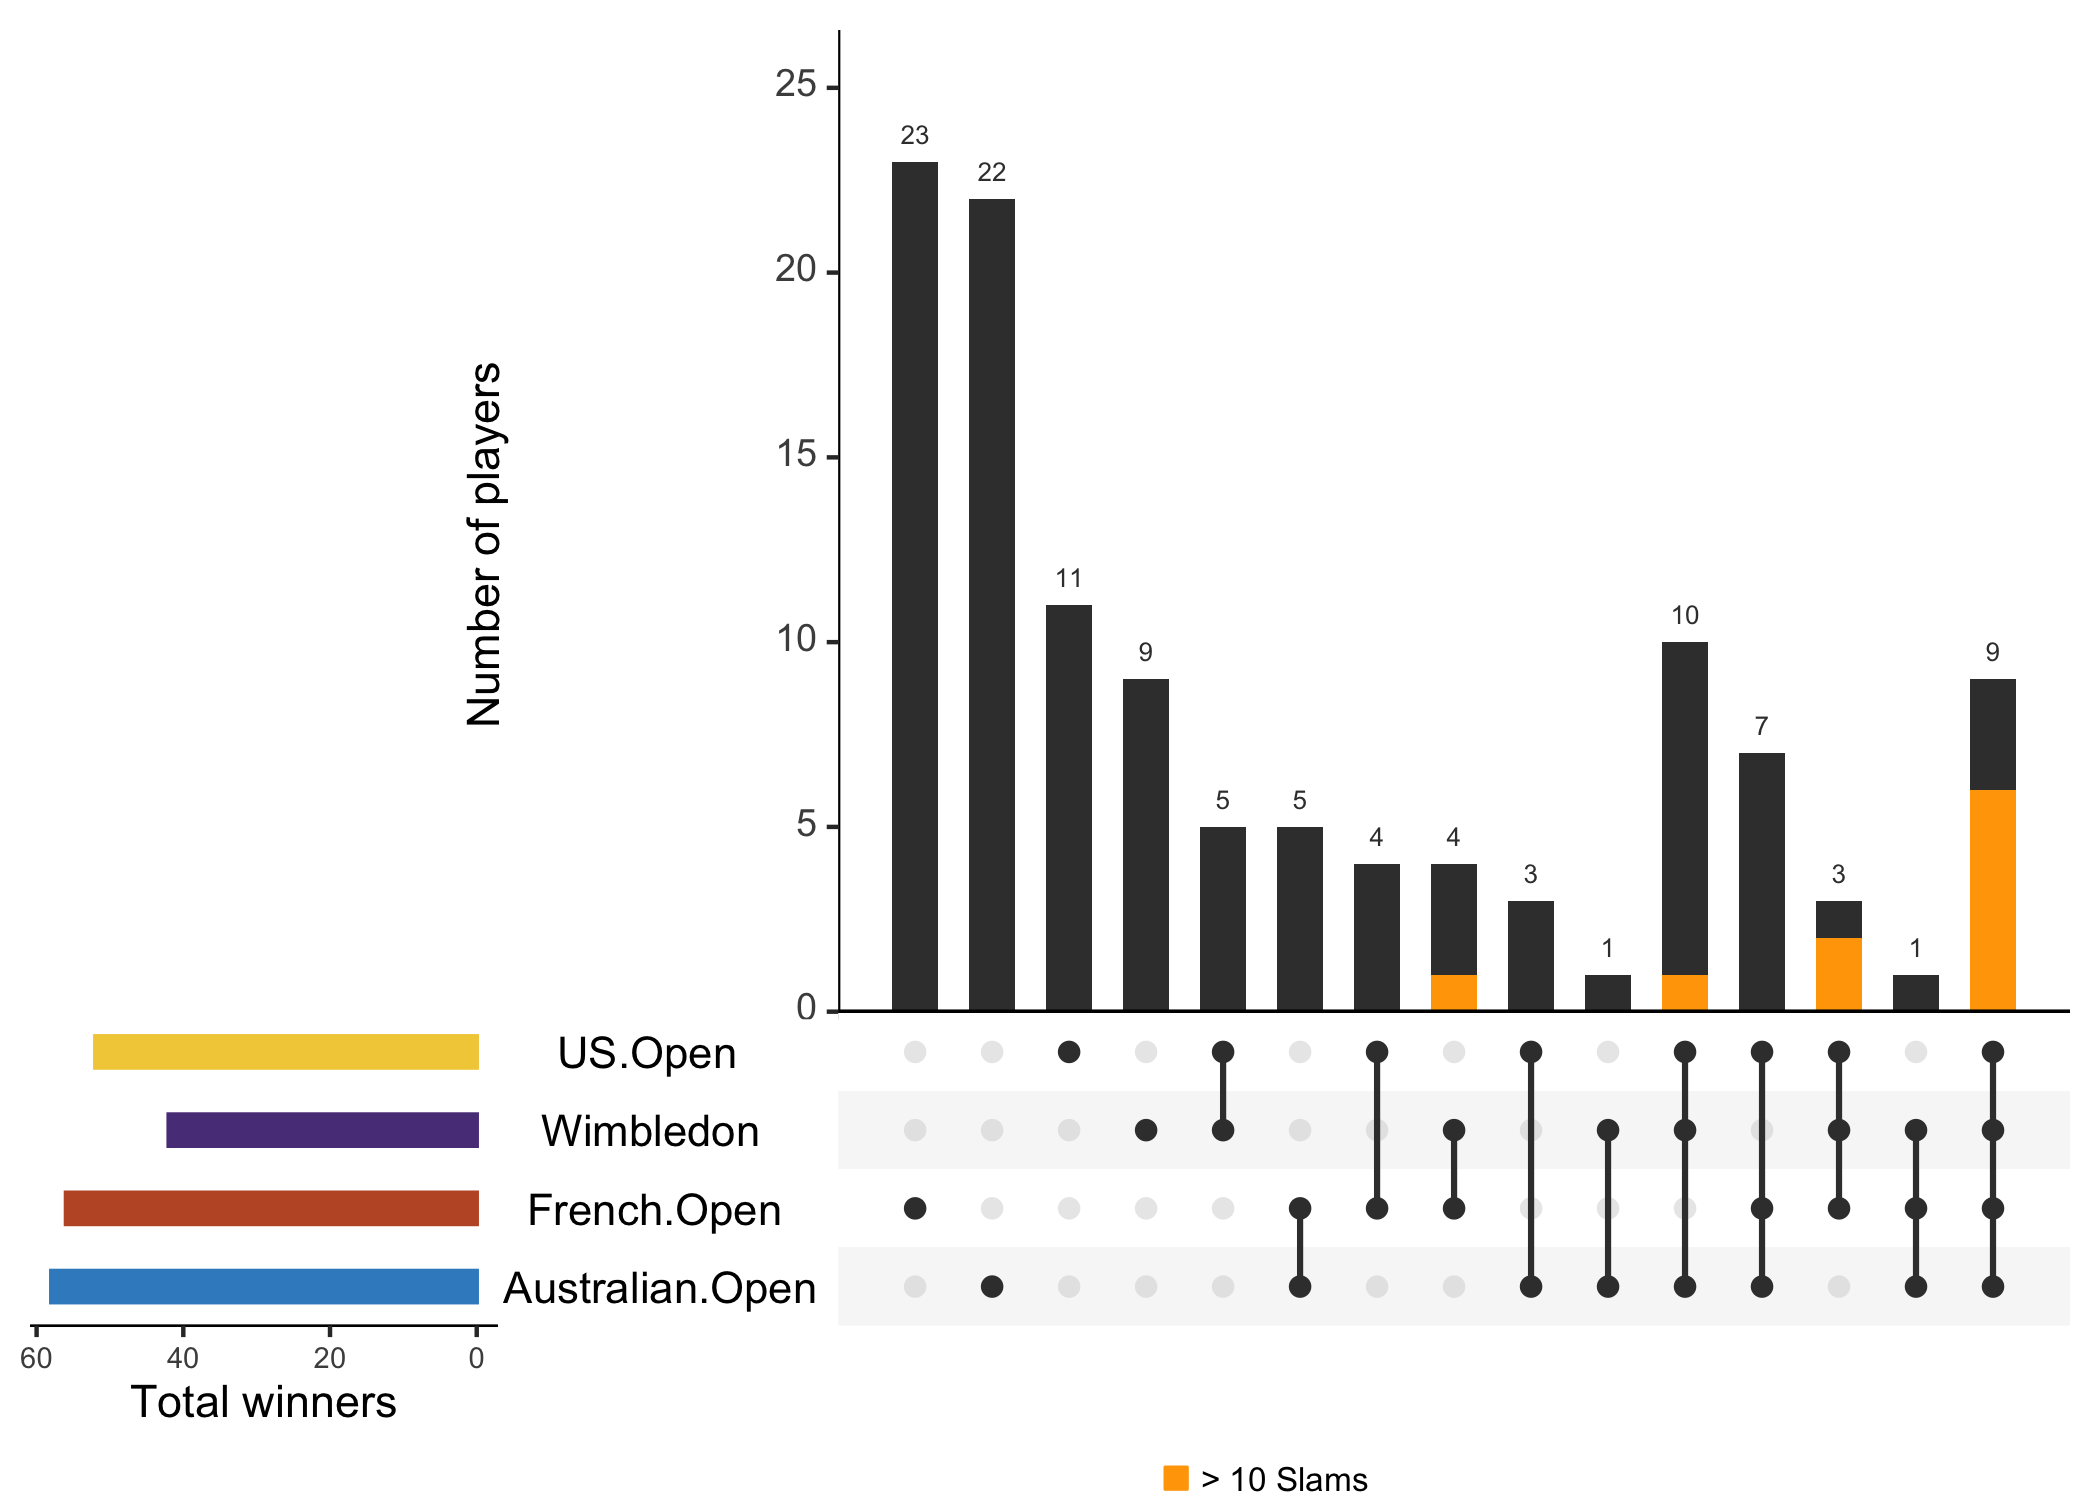
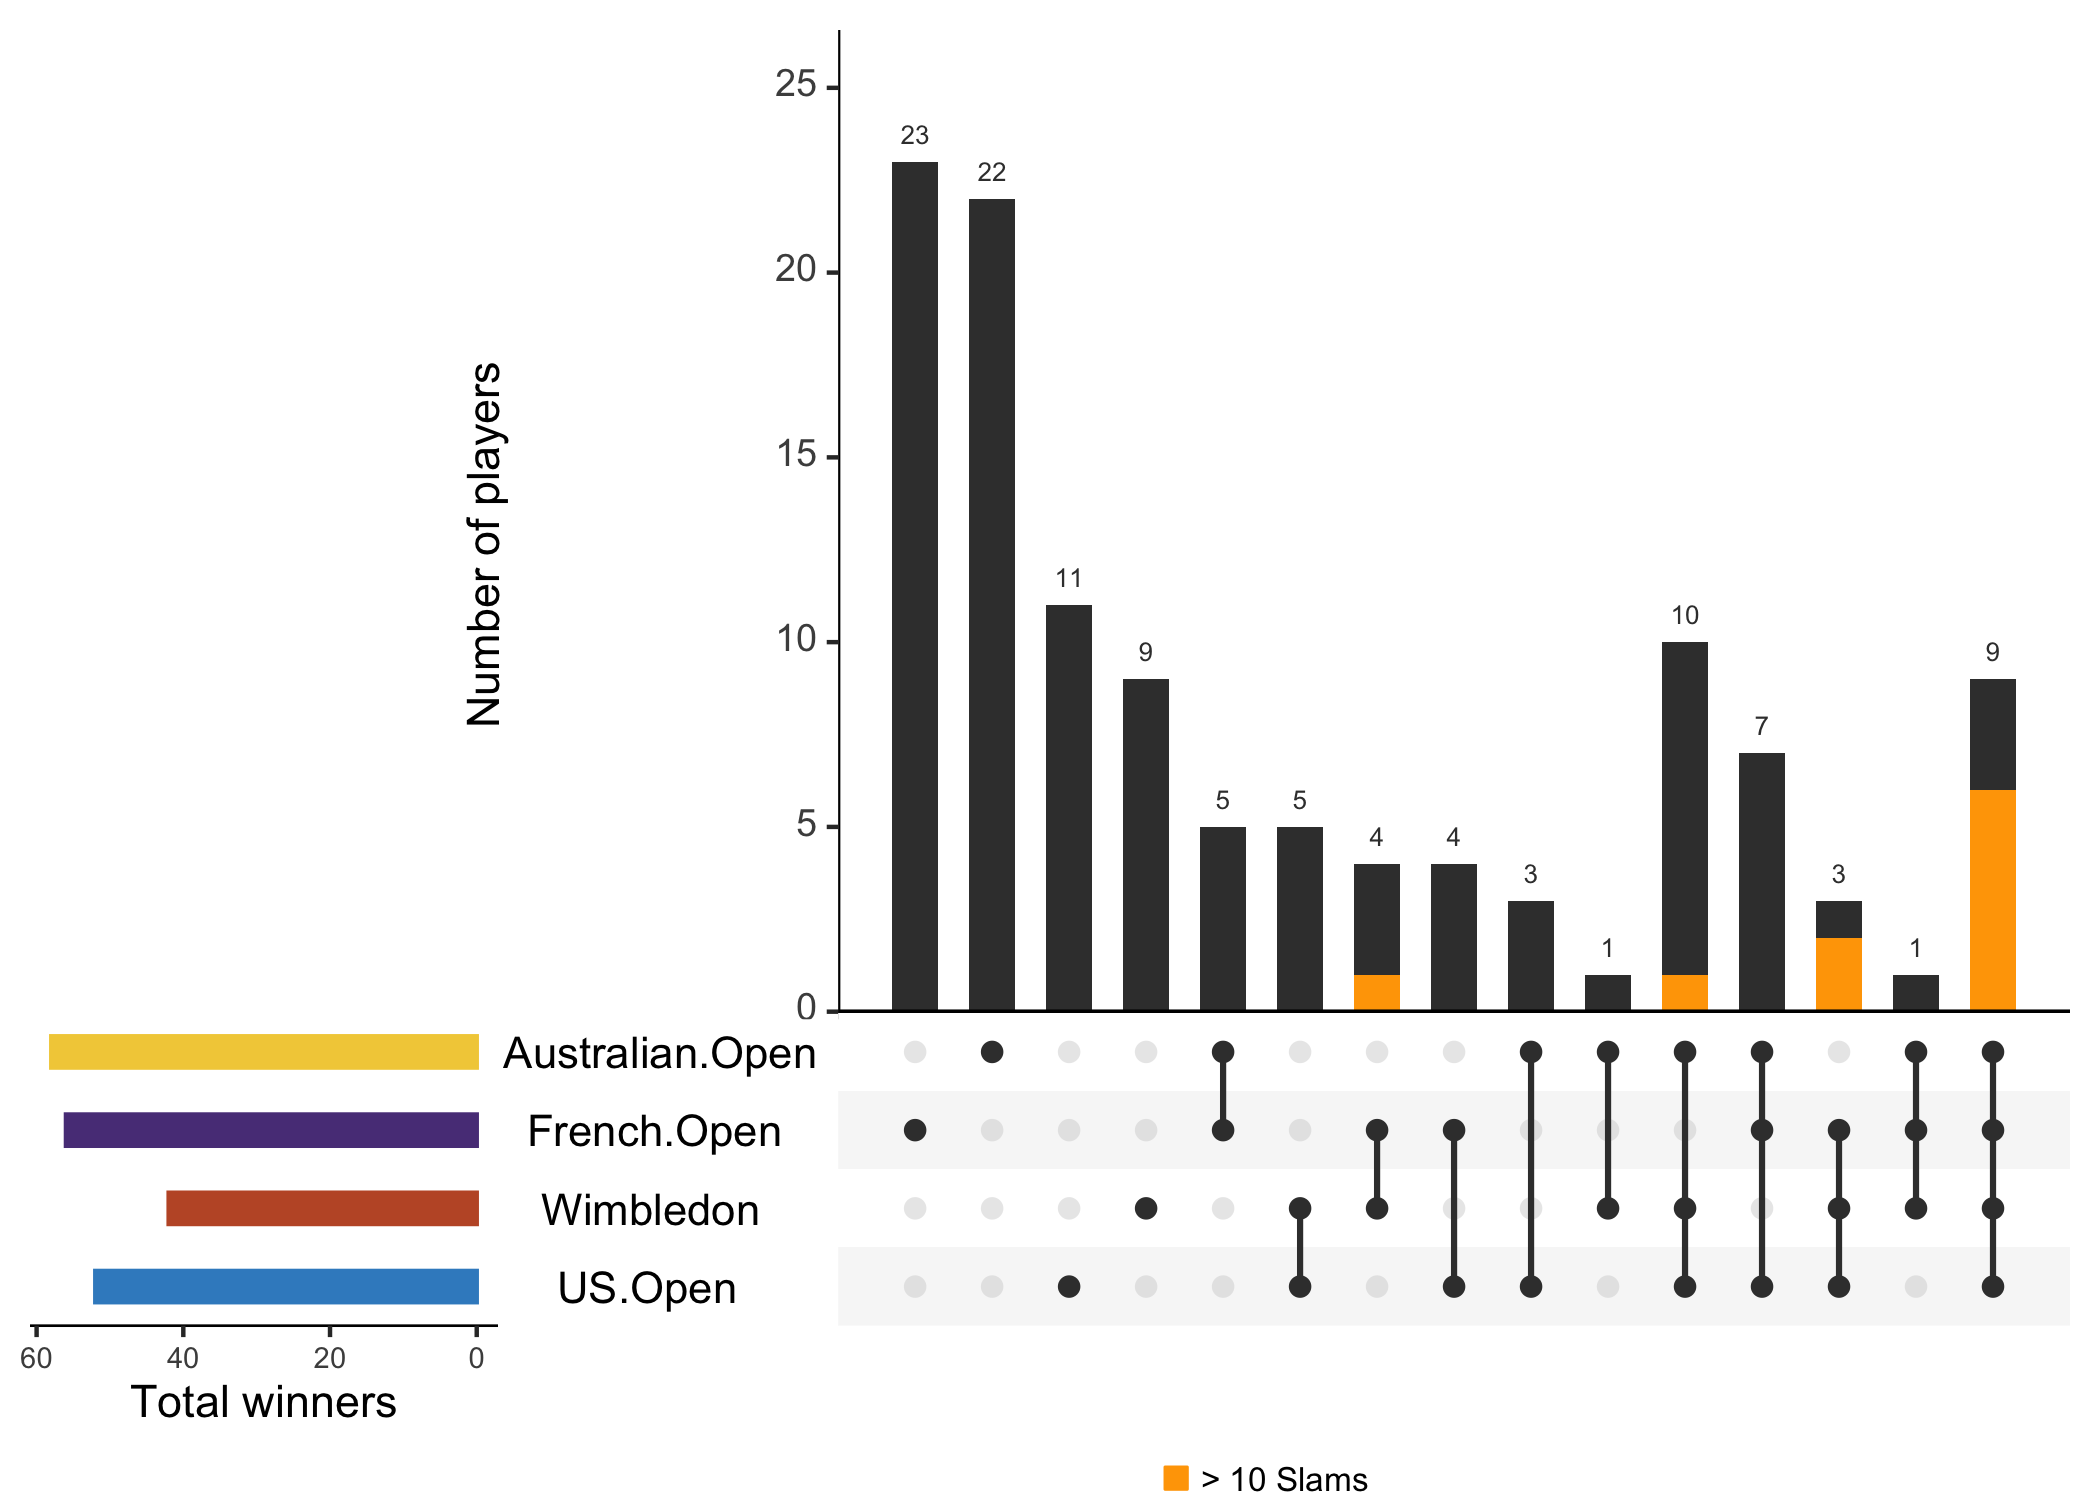
Update figures

diff --git a/_posts/2020-03-26-upsetr-beyond-the-venn-diagram.md b/_posts/2020-03-26-upsetr-beyond-the-venn-diagram.md
@@ -7,18 +7,19 @@ categories: R plotting
 
 [UpSetR](https://cran.r-project.org/web/packages/UpSetR/readme/README.html)
 is a package for visualising the intersections of many more sets than is
-feasible with, for example, Venn diagrams. In my research, I find these
-plots extremely powerful for showing large amounts of information in an
-attractive and intuitive way, with lots of options for exploring the
-data.
+feasible with, for example, Venn diagrams. They are particularly useful
+when there are many sets but the intersections are relatively sparsely
+populated. In my research, I find these plots extremely powerful for
+showing large amounts of information in an attractive and intuitive way,
+with lots of options for exploring the data.
 
-![](/blog/assets/img/beyond-the-venn-diagramunnamed-chunk-12-1.png)
+![](//blog/assets/img/beyond-the-venn-diagramunnamed-chunk-12-1.png)
 
-The sets are shown as rows of a matrix at the bottom, with intersections of
-sets indicated by connected filled circles, and the number of corresponding
-elements shown as a bar plot above. 
+The sets are shown as rows of a matrix at the bottom, with intersections
+of sets indicated by connected filled circles, and the number of
+corresponding elements shown as a bar plot above.
 
-For this example, I’m using [some
+For this example, I’m going to use [some
 data](https://github.com/clarewest//blog/blob/master/assets/slams.csv) on
 tennis Grand Slam winners. The data was scraped
 [from](https://en.wikipedia.org/wiki/List_of_Grand_Slam_women%27s_singles_champions)
@@ -27,7 +28,12 @@ using [this python
 script](https://github.com/clarewest//blog/blob/master/assets/grand_slam_wikipedia.py).
 
 ``` r
-t <- read.csv("https://raw.githubusercontent.com/clarewest//blog/master/assets/slams.csv", na.strings = "", stringsAsFactors = FALSE)
+t <-
+  read.csv(
+    "https://raw.githubusercontent.com/clarewest//blog/master/assets/slams.csv",
+    na.strings = "",
+    stringsAsFactors = FALSE
+  )
 head(t)
 ```
 
@@ -63,7 +69,6 @@ First I’ll put it in long format, in which each row is a tournament.
 ``` r
 library(tidyr)
 library(dplyr) 
-
 t_long <-
   t %>%
   tidyr::pivot_longer(
@@ -132,10 +137,10 @@ Today, I’m interested in how many players have won each combination of
 Slams. As there are 4 tournaments, I can just about represent this using
 a Venn diagram.
 
-First, let's reshape it back into wide format, but this time
-each row will correspond to a player, with a 1 for each tournament they
-have won, or a 0 for tournaments they haven’t, as well as the tour (Mens
-or Womens) and the total number of slams they have won.
+First, let’s reshape it back into wide format, but this time each row
+will correspond to a player, with a 1 for each tournament they have won,
+or a 0 for tournaments they haven’t, as well as the tour (Mens or
+Womens) and the total number of slams they have won.
 
 ``` r
 t_wide <-
@@ -164,9 +169,9 @@ head(t_wide)
     ## 6     Andy Murray Mens     3           0               0       1         1
 
 ``` r
-mat <- 
+mat <-
   t_wide %>%
-  dplyr::select(French.Open, Australian.Open, US.Open, Wimbledon) 
+  dplyr::select(French.Open, Australian.Open, US.Open, Wimbledon)
 
 gplots::venn(mat)
 ```
@@ -174,7 +179,7 @@ gplots::venn(mat)
 ![](/blog/assets/img/beyond-the-venn-diagramunnamed-chunk-7-1.png)<!-- -->
 
 While Venn diagrams are useful for describing overlaps between sets,
-they are limited in the number of sets they can show, and the reliance on
+they are limited in the number of sets they show, and the reliance on
 numbers can make patterns tricky to spot.
 
 Alternatively, we can visualise the same thing using an UpSet plot:
@@ -188,7 +193,7 @@ upset(t_wide)
 
 Cool\!
 
-There are many ways to customise this plot. For example:
+There are many ways to customise this. For example:
 
   - `keep.order`: keep the sets the same order rather than reordering by
     total count
@@ -210,13 +215,14 @@ examples.
 
 ``` r
 slam_colours = c("#3B8CC8", "#C05830", "#5A3E87", "#F2CE46") ## slam colours (too cute, I know)
-tournaments = c("Australian.Open", "French.Open", "Wimbledon", "US.Open") ## crucial order
+tournaments = c("Australian.Open", "French.Open", "Wimbledon", "US.Open") %>% ## crucial order
+  rev() ## reversed to be top to bottom
 
 upset(
   t_wide,
   sets = tournaments,
   keep.order = TRUE,
-  sets.bar.color = rev(slam_colours),
+  sets.bar.color = slam_colours,
   order.by = "freq",
   text.scale = c(1.3, 1.3, 1.3, 1, 1.5, 1),
   mainbar.y.label = "Number of players",
@@ -326,7 +332,7 @@ In addition to these built-in queries, it’s also possible to define your
 own custom queries.
 
 Let’s define a query `slams` that highlights the players who have won
-more than a given number of total Slams:
+more than a given number of total Slams
 
 ``` r
 slams <- function(row, total) {
